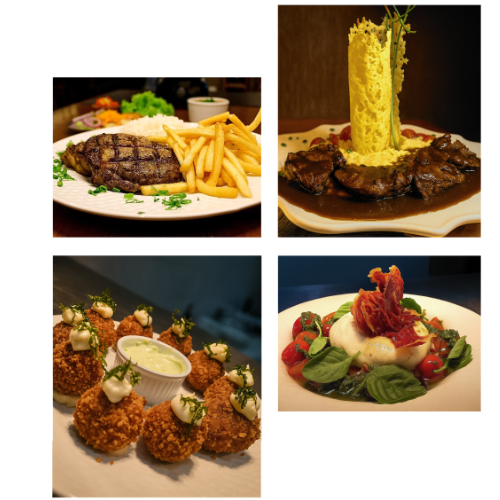
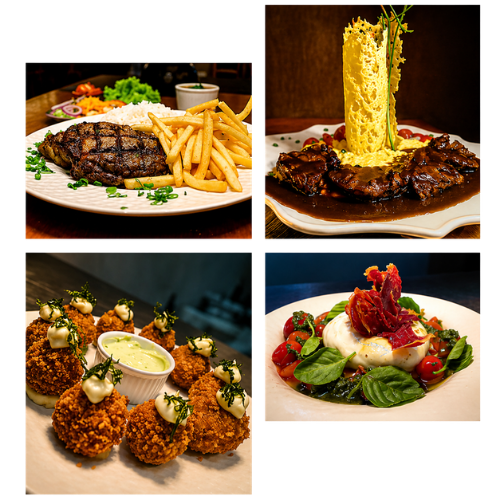
atualizando o carrossel e algumas imagens do site

diff --git a/frontend/src/components/home/Carrossel.jsx b/frontend/src/components/home/Carrossel.jsx
@@ -1,6 +1,6 @@
-import { useState, useEffect, useCallback } from 'react';
-import { carrosselService } from '../../service/carrosselService';
-import { FiImage } from 'react-icons/fi';
+import { useState, useEffect, useCallback } from "react";
+import { carrosselService } from "../../service/carrosselService";
+import { FiImage } from "react-icons/fi";
 
 const Carrossel = () => {
   const [slides, setSlides] = useState([]);
@@ -15,18 +15,18 @@ const Carrossel = () => {
   const carregarBanners = async () => {
     try {
       const data = await carrosselService.listarAtivos();
-      
-      const slidesFormatados = data.map(banner => ({
+
+      const slidesFormatados = data.map((banner) => ({
         id: banner._id,
         image: banner.imagem,
         title: banner.titulo,
-        description: banner.descricao || 'Conheça o Barra Bambu'
+        description: banner.descricao || "Conheça o Barra Bambu",
       }));
 
       setSlides(slidesFormatados);
       setCurrentIndex(0);
     } catch (error) {
-      console.error('Erro ao carregar banners:', error);
+      console.error("Erro ao carregar banners:", error);
     } finally {
       setLoading(false);
     }
@@ -42,12 +42,15 @@ const Carrossel = () => {
   const prevSlide = () => {
     if (isTransitioning || slides.length === 0) return;
     setIsTransitioning(true);
-    setCurrentIndex((prevIndex) => (prevIndex - 1 + slides.length) % slides.length);
+    setCurrentIndex(
+      (prevIndex) => (prevIndex - 1 + slides.length) % slides.length,
+    );
     setTimeout(() => setIsTransitioning(false), 500);
   };
 
   const goToSlide = (index) => {
-    if (isTransitioning || index === currentIndex || slides.length === 0) return;
+    if (isTransitioning || index === currentIndex || slides.length === 0)
+      return;
     setIsTransitioning(true);
     setCurrentIndex(index);
     setTimeout(() => setIsTransitioning(false), 500);
@@ -55,10 +58,10 @@ const Carrossel = () => {
 
   useEffect(() => {
     if (slides.length === 0) return;
-    
+
     const timer = setInterval(() => {
       nextSlide();
-    }, 2000);
+    }, 3000);
 
     return () => clearInterval(timer);
   }, [nextSlide, slides.length]);
@@ -88,10 +91,10 @@ const Carrossel = () => {
         {slides.map((slide, index) => (
           <div
             key={slide.id}
-            className={`absolute inset-0 w-full h-full transition-opacity duration-1000 ease-in-out
-              ${index === currentIndex ? 'opacity-100 z-10' : 'opacity-0 z-0'}`}
+            className={`absolute inset-0 w-full h-full transition-opacity duration-2000 ease-in-out
+              ${index === currentIndex ? "opacity-100 z-10" : "opacity-0 z-0"}`}
           >
-            <div 
+            <div
               className="absolute inset-0 bg-cover bg-center"
               style={{ backgroundImage: `url(${slide.image})` }}
             >
@@ -99,10 +102,10 @@ const Carrossel = () => {
             </div>
 
             <div className="absolute inset-0 flex flex-col items-center justify-center text-white text-center px-4">
-              <h2 className="text-4xl md:text-5xl lg:text-6xl font-bold mb-4">
+              <h2 className="text-4xl md:text-5xl lg:text-6xl font-bold mb-4 animate-fade-in-up">
                 {slide.title}
               </h2>
-              <p className="text-lg md:text-xl lg:text-2xl max-w-2xl">
+              <p className="text-base md:text-lg lg:text-xl max-w-2xl text-white/60 animate-fade-in-up animation-delay-200">
                 {slide.description}
               </p>
             </div>
@@ -117,13 +120,18 @@ const Carrossel = () => {
             className="absolute left-4 top-1/2 -translate-y-1/2 z-20 bg-white/20 hover:bg-white/40 text-white w-12 h-12 rounded-full flex items-center justify-center backdrop-blur-sm transition-all duration-300 group"
             aria-label="Slide anterior"
           >
-            <svg 
-              className="w-6 h-6 group-hover:-translate-x-1 transition-transform duration-300" 
-              fill="none" 
-              stroke="currentColor" 
+            <svg
+              className="w-6 h-6 group-hover:-translate-x-1 transition-transform duration-300"
+              fill="none"
+              stroke="currentColor"
               viewBox="0 0 24 24"
             >
-              <path strokeLinecap="round" strokeLinejoin="round" strokeWidth={2} d="M15 19l-7-7 7-7" />
+              <path
+                strokeLinecap="round"
+                strokeLinejoin="round"
+                strokeWidth={2}
+                d="M15 19l-7-7 7-7"
+              />
             </svg>
           </button>
 
@@ -132,13 +140,18 @@ const Carrossel = () => {
             className="absolute right-4 top-1/2 -translate-y-1/2 z-20 bg-white/20 hover:bg-white/40 text-white w-12 h-12 rounded-full flex items-center justify-center backdrop-blur-sm transition-all duration-300 group"
             aria-label="Próximo slide"
           >
-            <svg 
-              className="w-6 h-6 group-hover:translate-x-1 transition-transform duration-300" 
-              fill="none" 
-              stroke="currentColor" 
+            <svg
+              className="w-6 h-6 group-hover:translate-x-1 transition-transform duration-300"
+              fill="none"
+              stroke="currentColor"
               viewBox="0 0 24 24"
             >
-              <path strokeLinecap="round" strokeLinejoin="round" strokeWidth={2} d="M9 5l7 7-7 7" />
+              <path
+                strokeLinecap="round"
+                strokeLinejoin="round"
+                strokeWidth={2}
+                d="M9 5l7 7-7 7"
+              />
             </svg>
           </button>
         </>
@@ -151,9 +164,11 @@ const Carrossel = () => {
               key={index}
               onClick={() => goToSlide(index)}
               className={`transition-all duration-500 rounded-full
-                ${index === currentIndex 
-                  ? 'w-10 h-3 bg-primary' 
-                  : 'w-3 h-3 bg-white/50 hover:bg-white/80'}`}
+                ${
+                  index === currentIndex
+                    ? "w-10 h-3 bg-primary"
+                    : "w-3 h-3 bg-white/50 hover:bg-white/80"
+                }`}
               aria-label={`Ir para slide ${index + 1}`}
             />
           ))}

diff --git a/frontend/src/components/home/Servicos.jsx b/frontend/src/components/home/Servicos.jsx
@@ -1,16 +1,16 @@
 import { FiPercent } from 'react-icons/fi';
 
-import promo1 from '../../assets/promo-1.jpg';
-import promo2 from '../../assets/promo-2.jpg';
-import promo3 from '../../assets/promo-3.jpg';
-import promo4 from '../../assets/promo-4.jpg';
+import servico1 from '../../assets/promo-1.jpg';
+import servico2 from '../../assets/promo-2.jpg';
+import servico3 from '../../assets/promo-3.jpg';
+import servico4 from '../../assets/promo-4.jpg';
 
 const Servicos = () => {
-  const promocoes = [
-    { id: 1, imagem: promo1 },
-    { id: 2, imagem: promo2 },
-    { id: 3, imagem: promo3 },
-    { id: 4, imagem: promo4 }
+  const servicos = [
+    { id: 1, imagem: servico1 },
+    { id: 2, imagem: servico2 },
+    { id: 3, imagem: servico3 },
+    { id: 4, imagem: servico4 }
   ];
 
   return (
@@ -27,13 +27,13 @@ const Servicos = () => {
         {/* Mobile: Scroll */}
         <div className="lg:hidden overflow-x-auto pb-4 -mx-4 px-4">
           <div className="flex gap-4">
-            {promocoes.map((promo) => (
+            {servicos.map((servico) => (
               <div
-                key={promo.id}
-                className="flex-shrink-0 w-48 h-48 rounded-lg overflow-hidden shadow-md"
+                key={servico.id}
+                className="shrink-0 w-48 h-48 rounded-lg overflow-hidden shadow-md"
               >
                 <img
-                  src={promo.imagem}
+                  src={servico.imagem}
                   alt="Serviço"
                   className="w-full h-full object-cover"
                 />
@@ -44,13 +44,13 @@ const Servicos = () => {
 
         {/* Desktop: Grid */}
         <div className="hidden lg:grid lg:grid-cols-4 gap-6">
-          {promocoes.map((promo) => (
+          {servicos.map((servico) => (
             <div
-              key={promo.id}
+              key={servico.id}
               className="rounded-lg overflow-hidden shadow-md hover:shadow-lg transition-shadow"
             >
               <img
-                src={promo.imagem}
+                src={servico.imagem}
                 alt="Serviço"
                 className="w-full h-full object-cover"
               />

diff --git a/frontend/src/components/home/Filosofia.jsx b/frontend/src/components/home/Filosofia.jsx
@@ -1,5 +1,5 @@
 import React from 'react';
-import philosophyImg from '../../assets/philosophy.jpg';
+import philosophyImg from '../../assets/philosophy.png';
 
 const Filosofia = () => {
   return (

diff --git a/frontend/src/components/home/Sobre.jsx b/frontend/src/components/home/Sobre.jsx
@@ -13,7 +13,7 @@ const Sobre = () => {
               <img 
                 src={welcomeImg} 
                 alt="Bem-vindo ao Barra Bambu" 
-                className="w-full h-auto rounded-lg shadow-xl"
+                className="w-full h-auto rounded-lg "
               />
               <div className="absolute -bottom-4 -right-4 w-24 h-24 bg-primary/20 rounded-full -z-10"></div>
             </div>